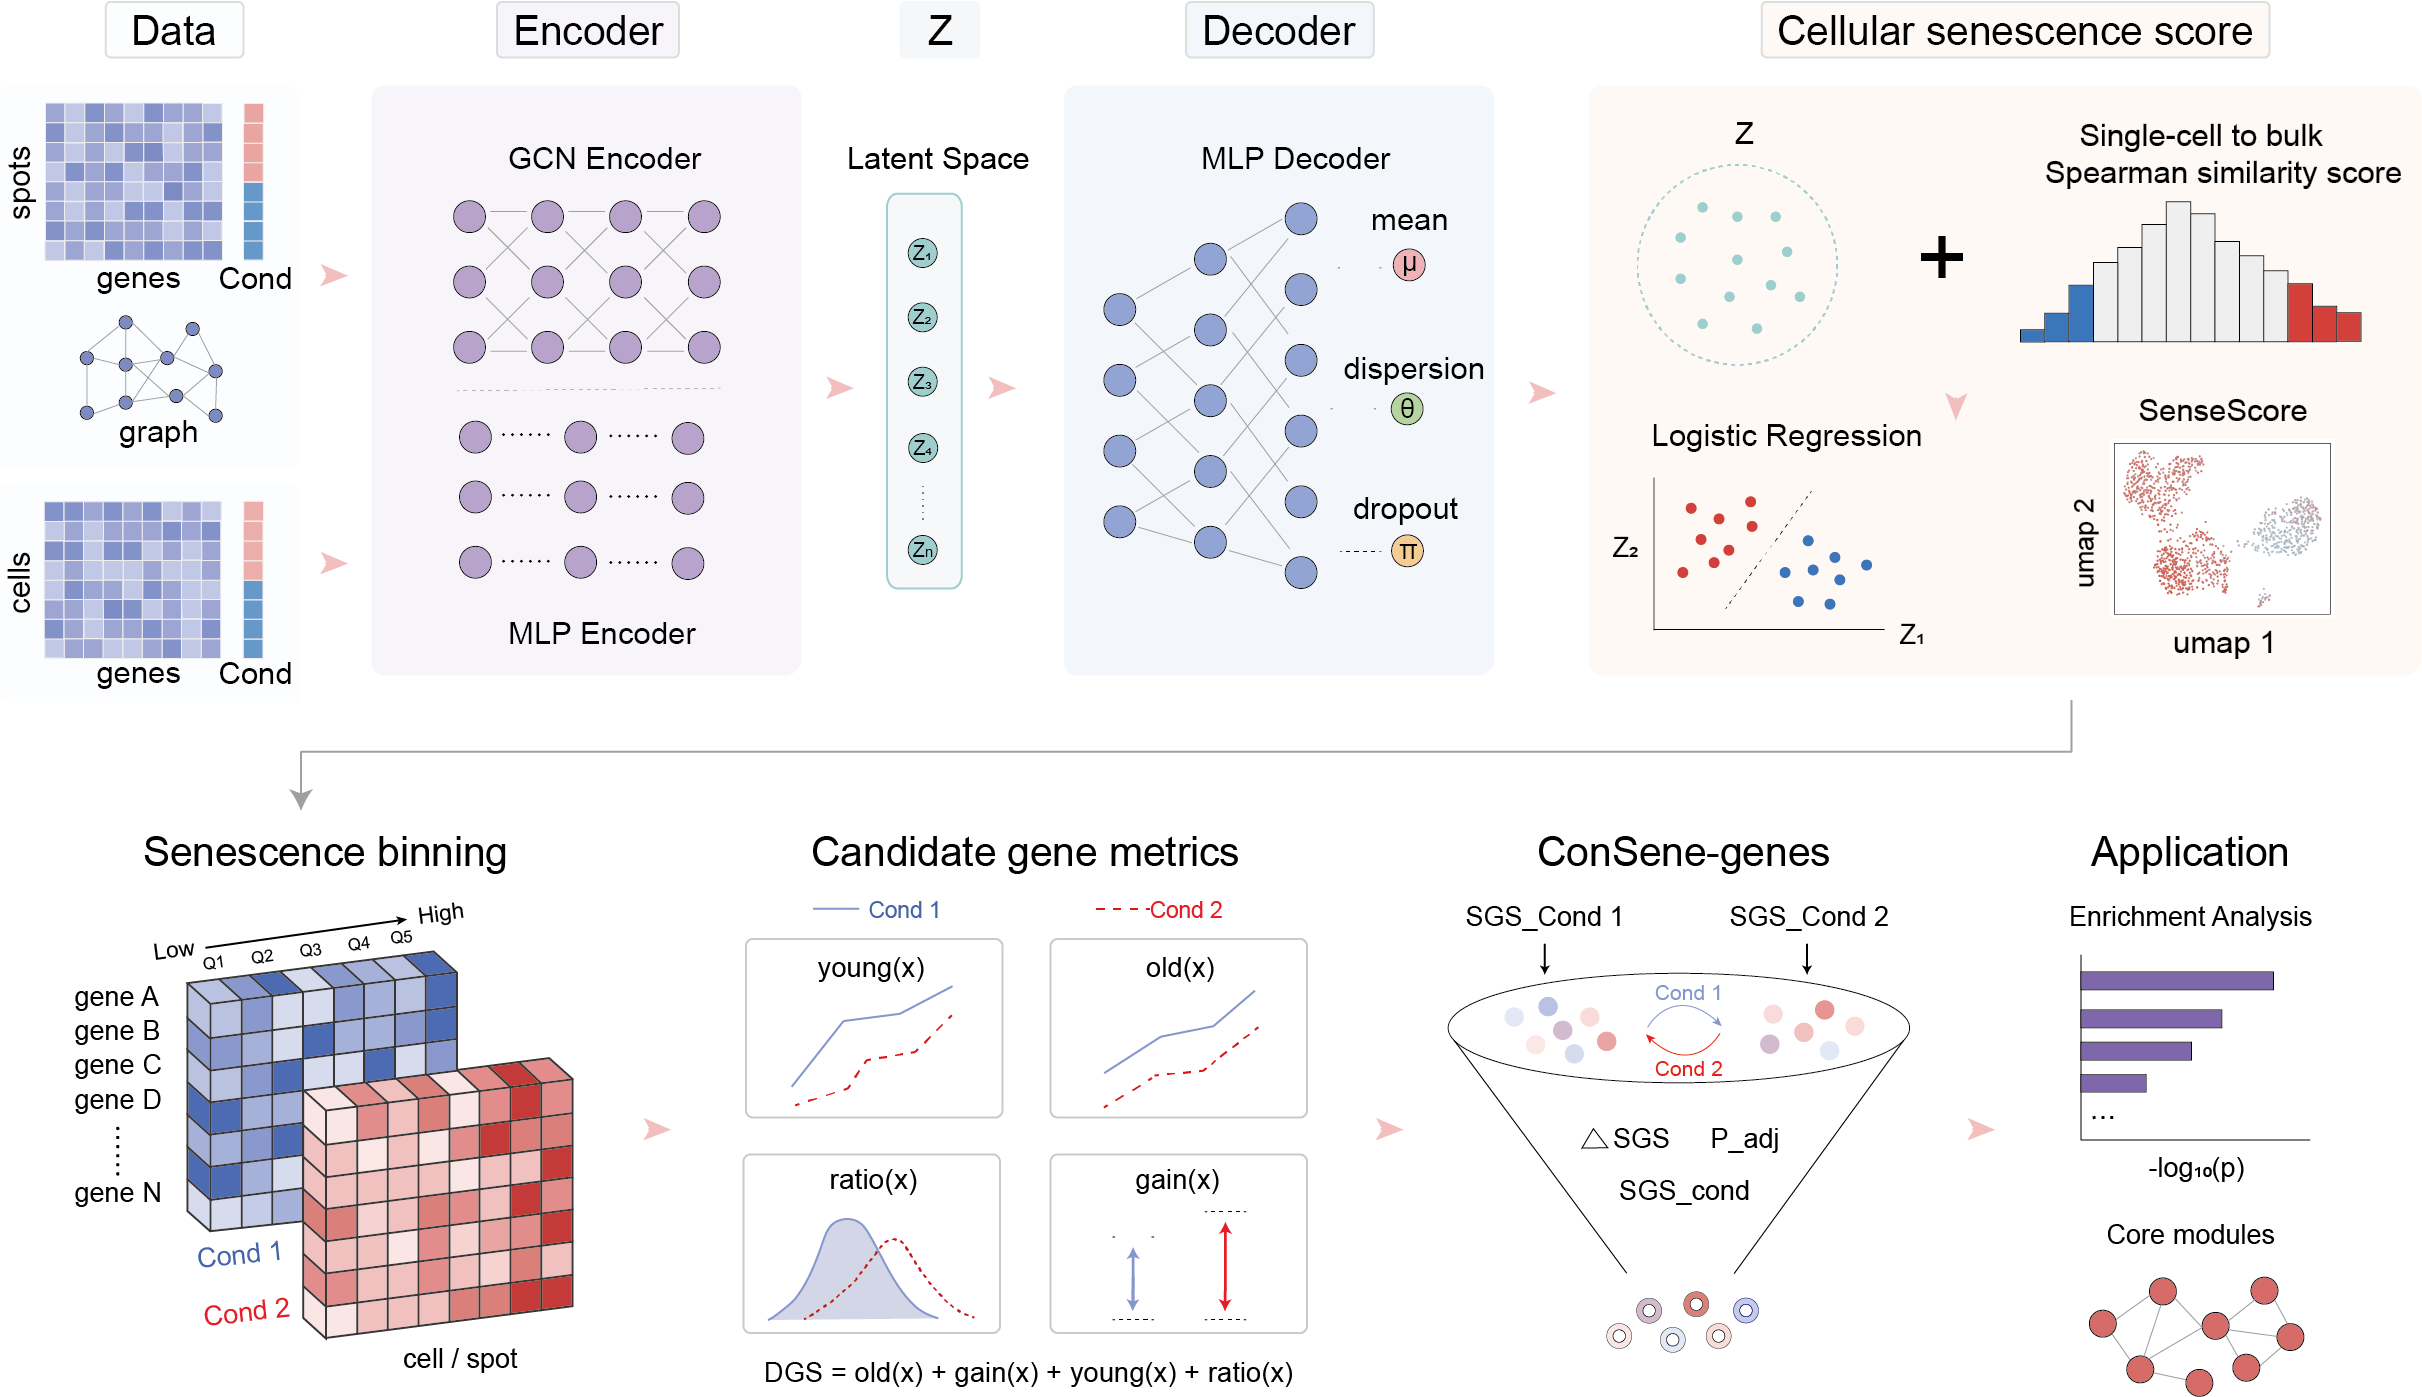
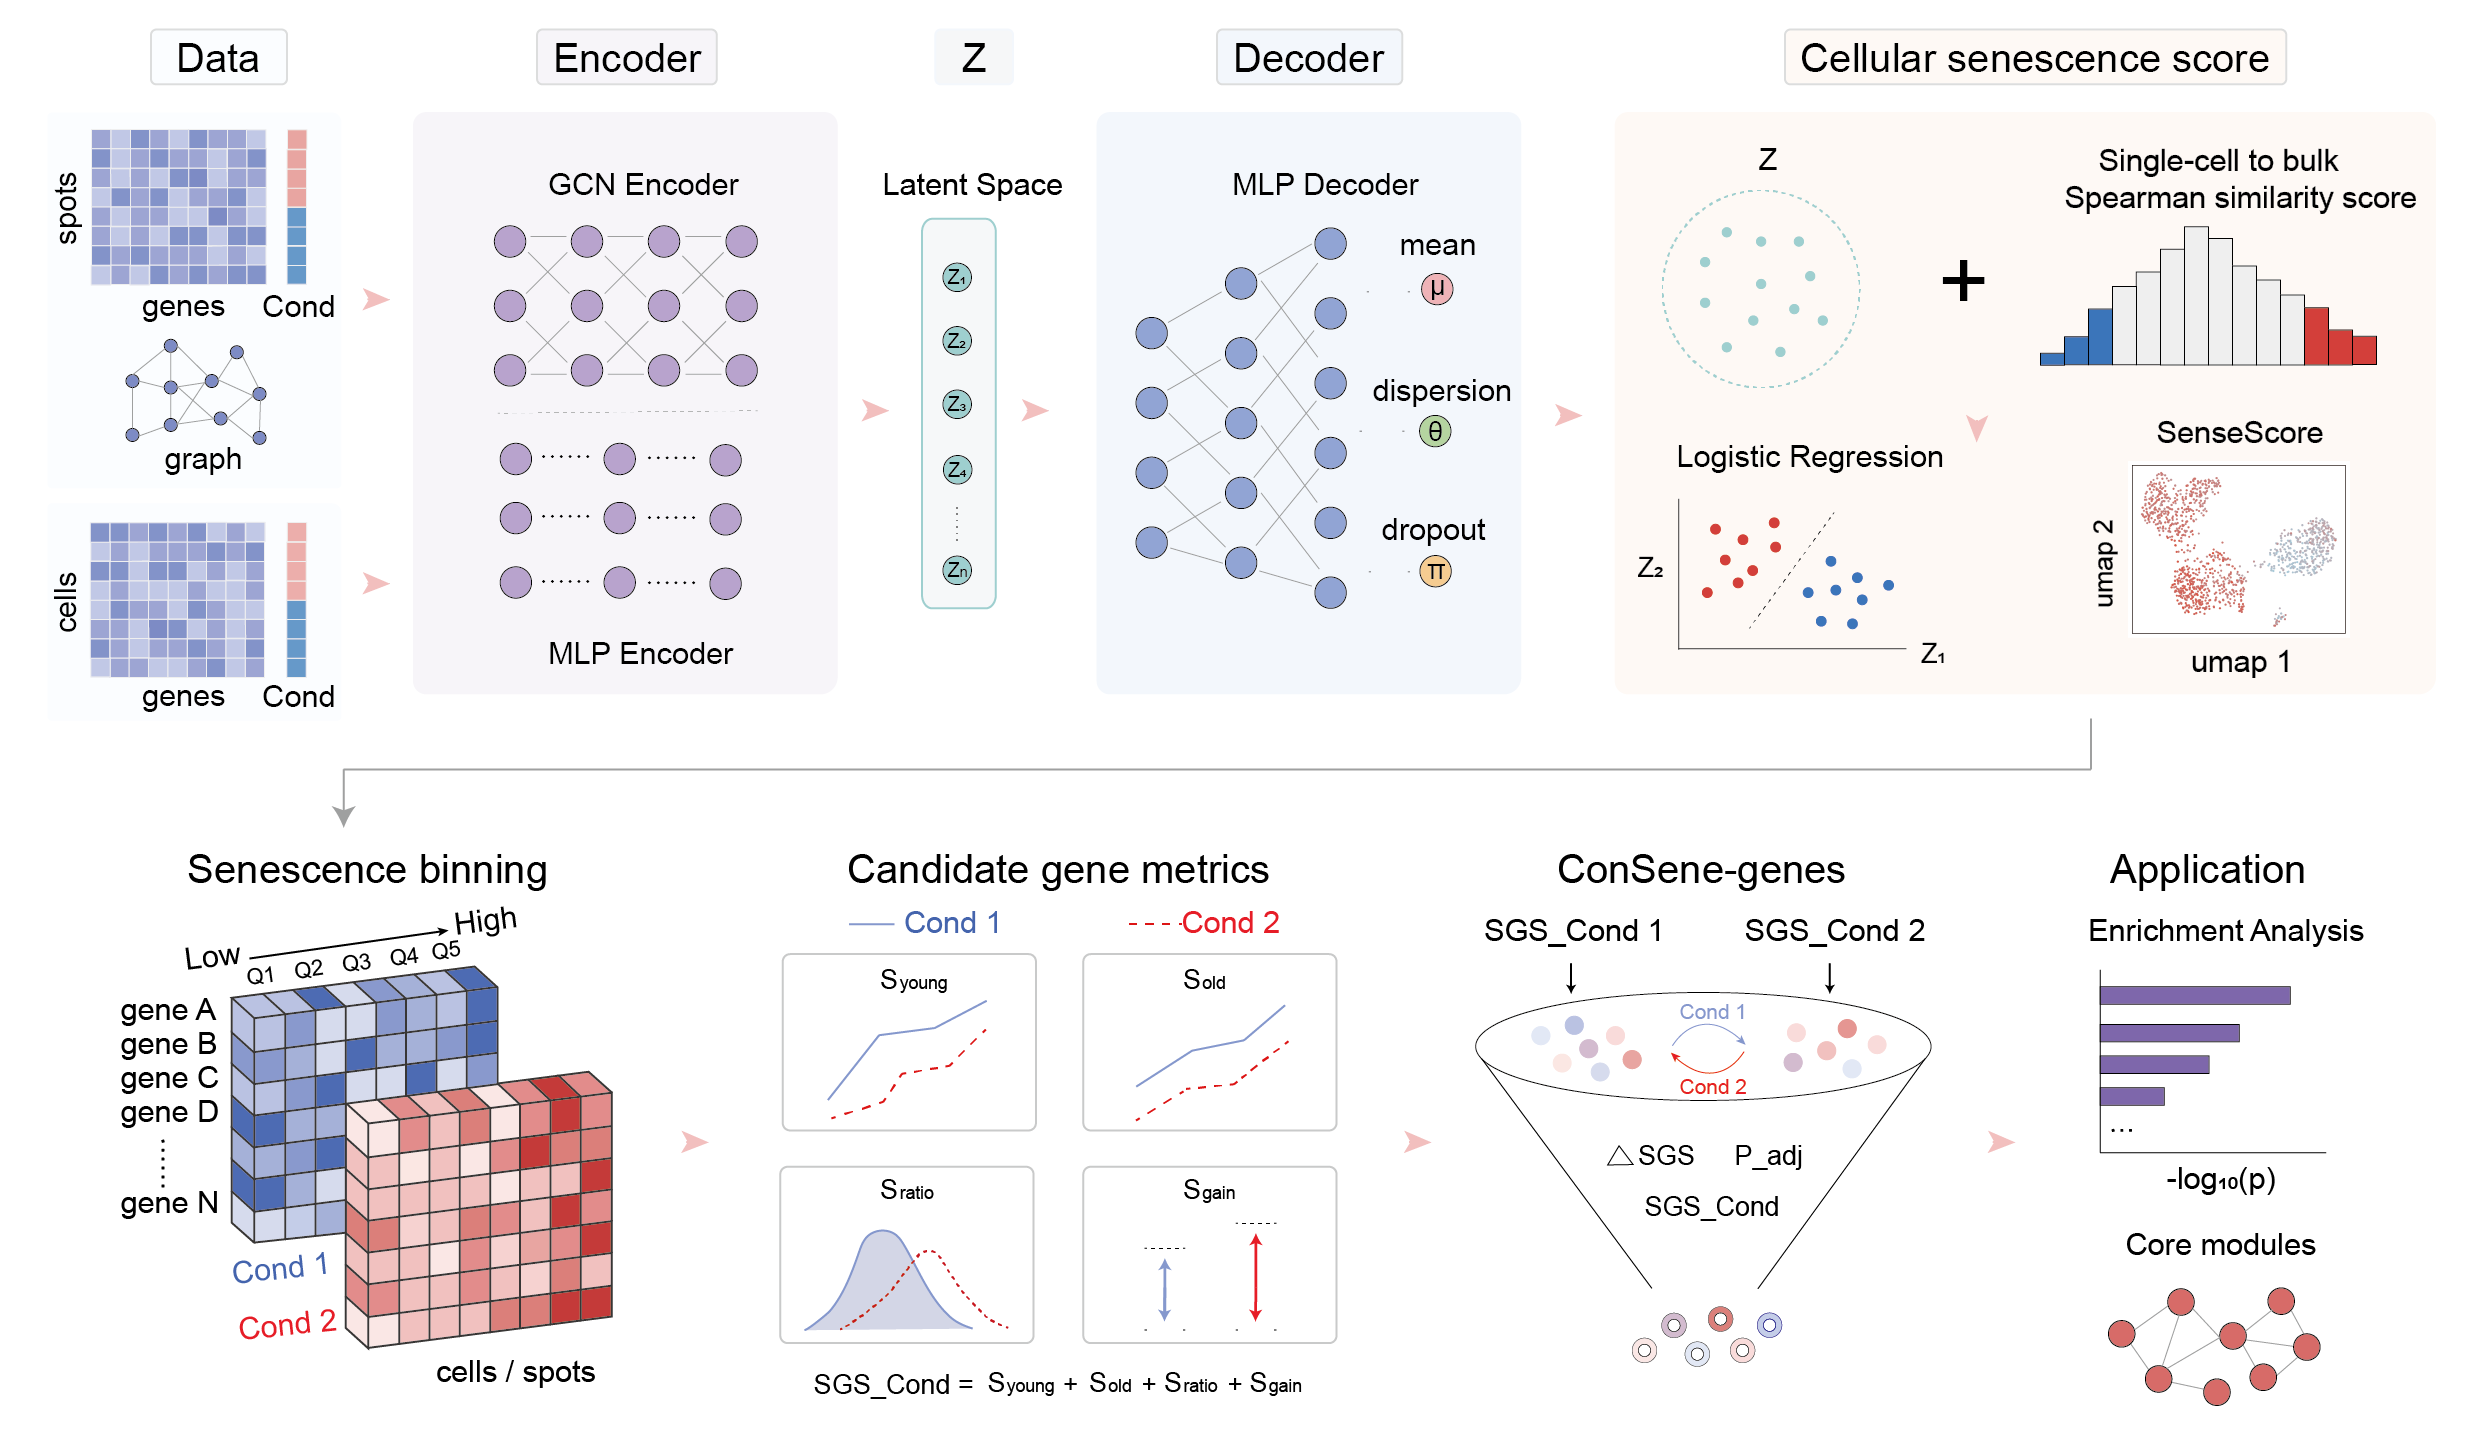
Update entire project

diff --git a/setup.py b/setup.py
@@ -1,4 +1,4 @@
-from setuptools import setup, find_packages
+from setuptools import setup
 
 setup(
     name="ConSenPy",

diff --git a/README.md b/README.md
@@ -1,6 +1,6 @@
 # ConSenPy: detecting context-specific senescence genes from single-cell and spatial transcriptomics
 <p align="center">
-  <img src="docs/ConSenPy_Overview.png" alt="Overview" width="600">
+  <img src="docs/ConSenPy_Overview.png" alt="Overview" width="800">
 </p>
 
 
